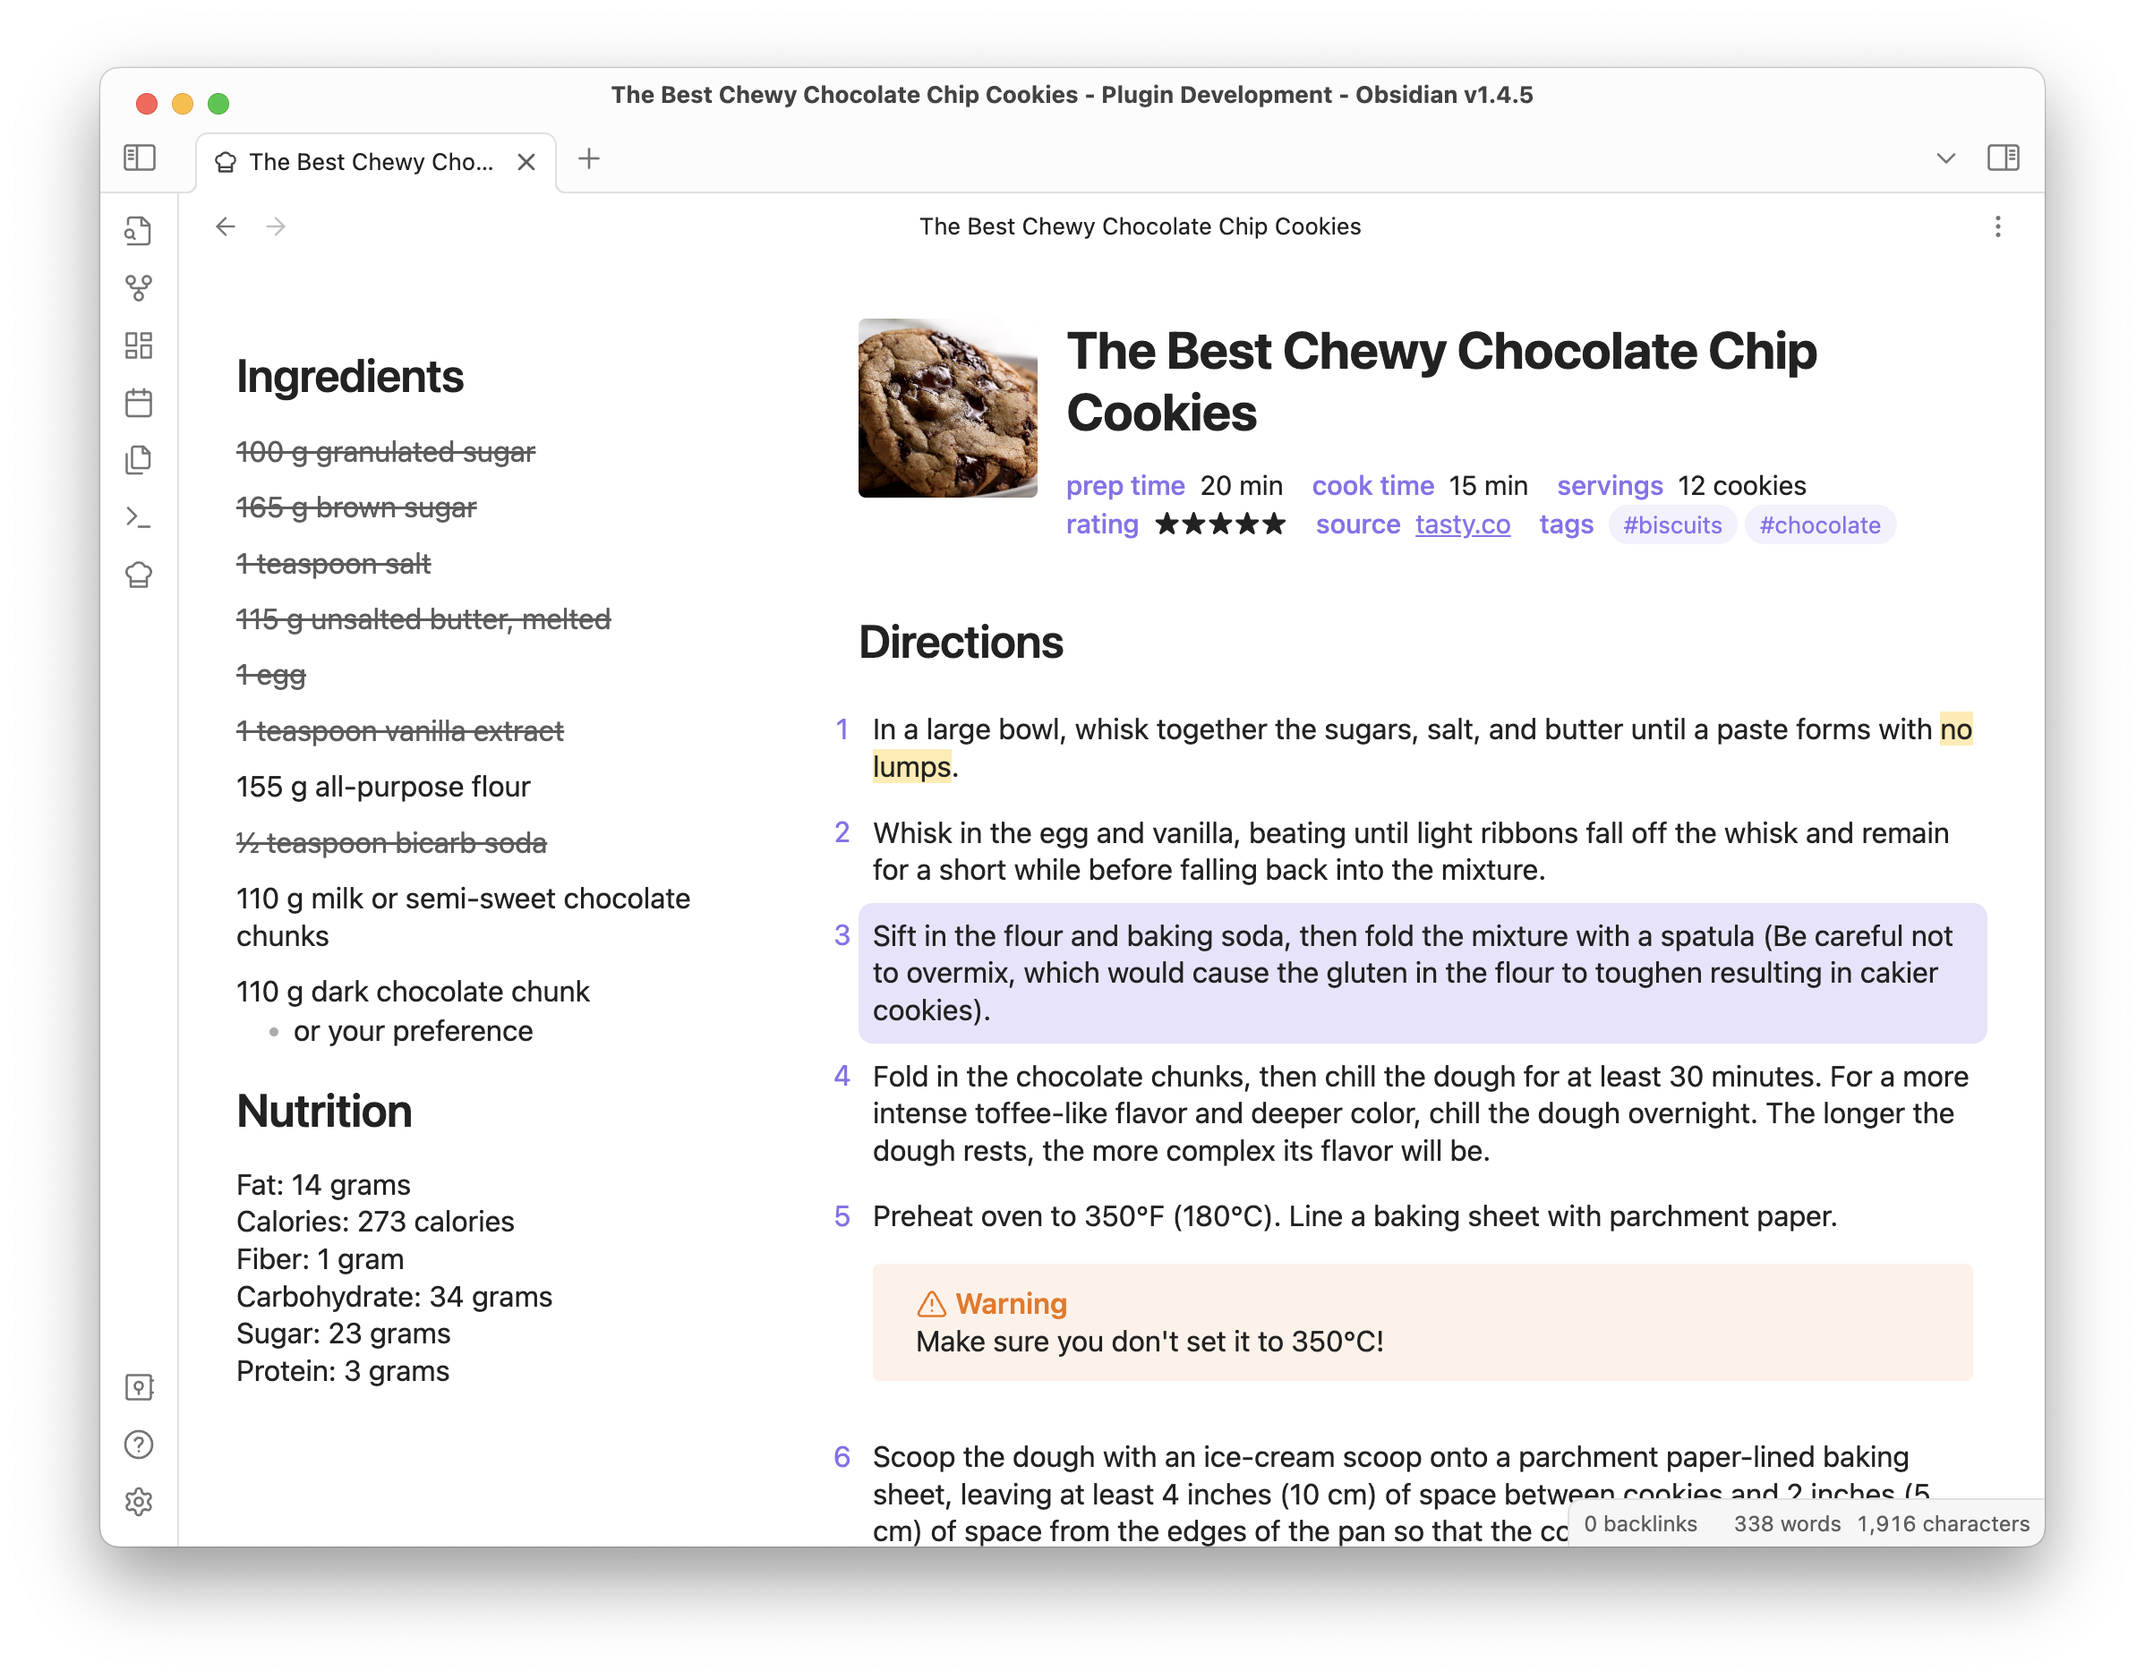
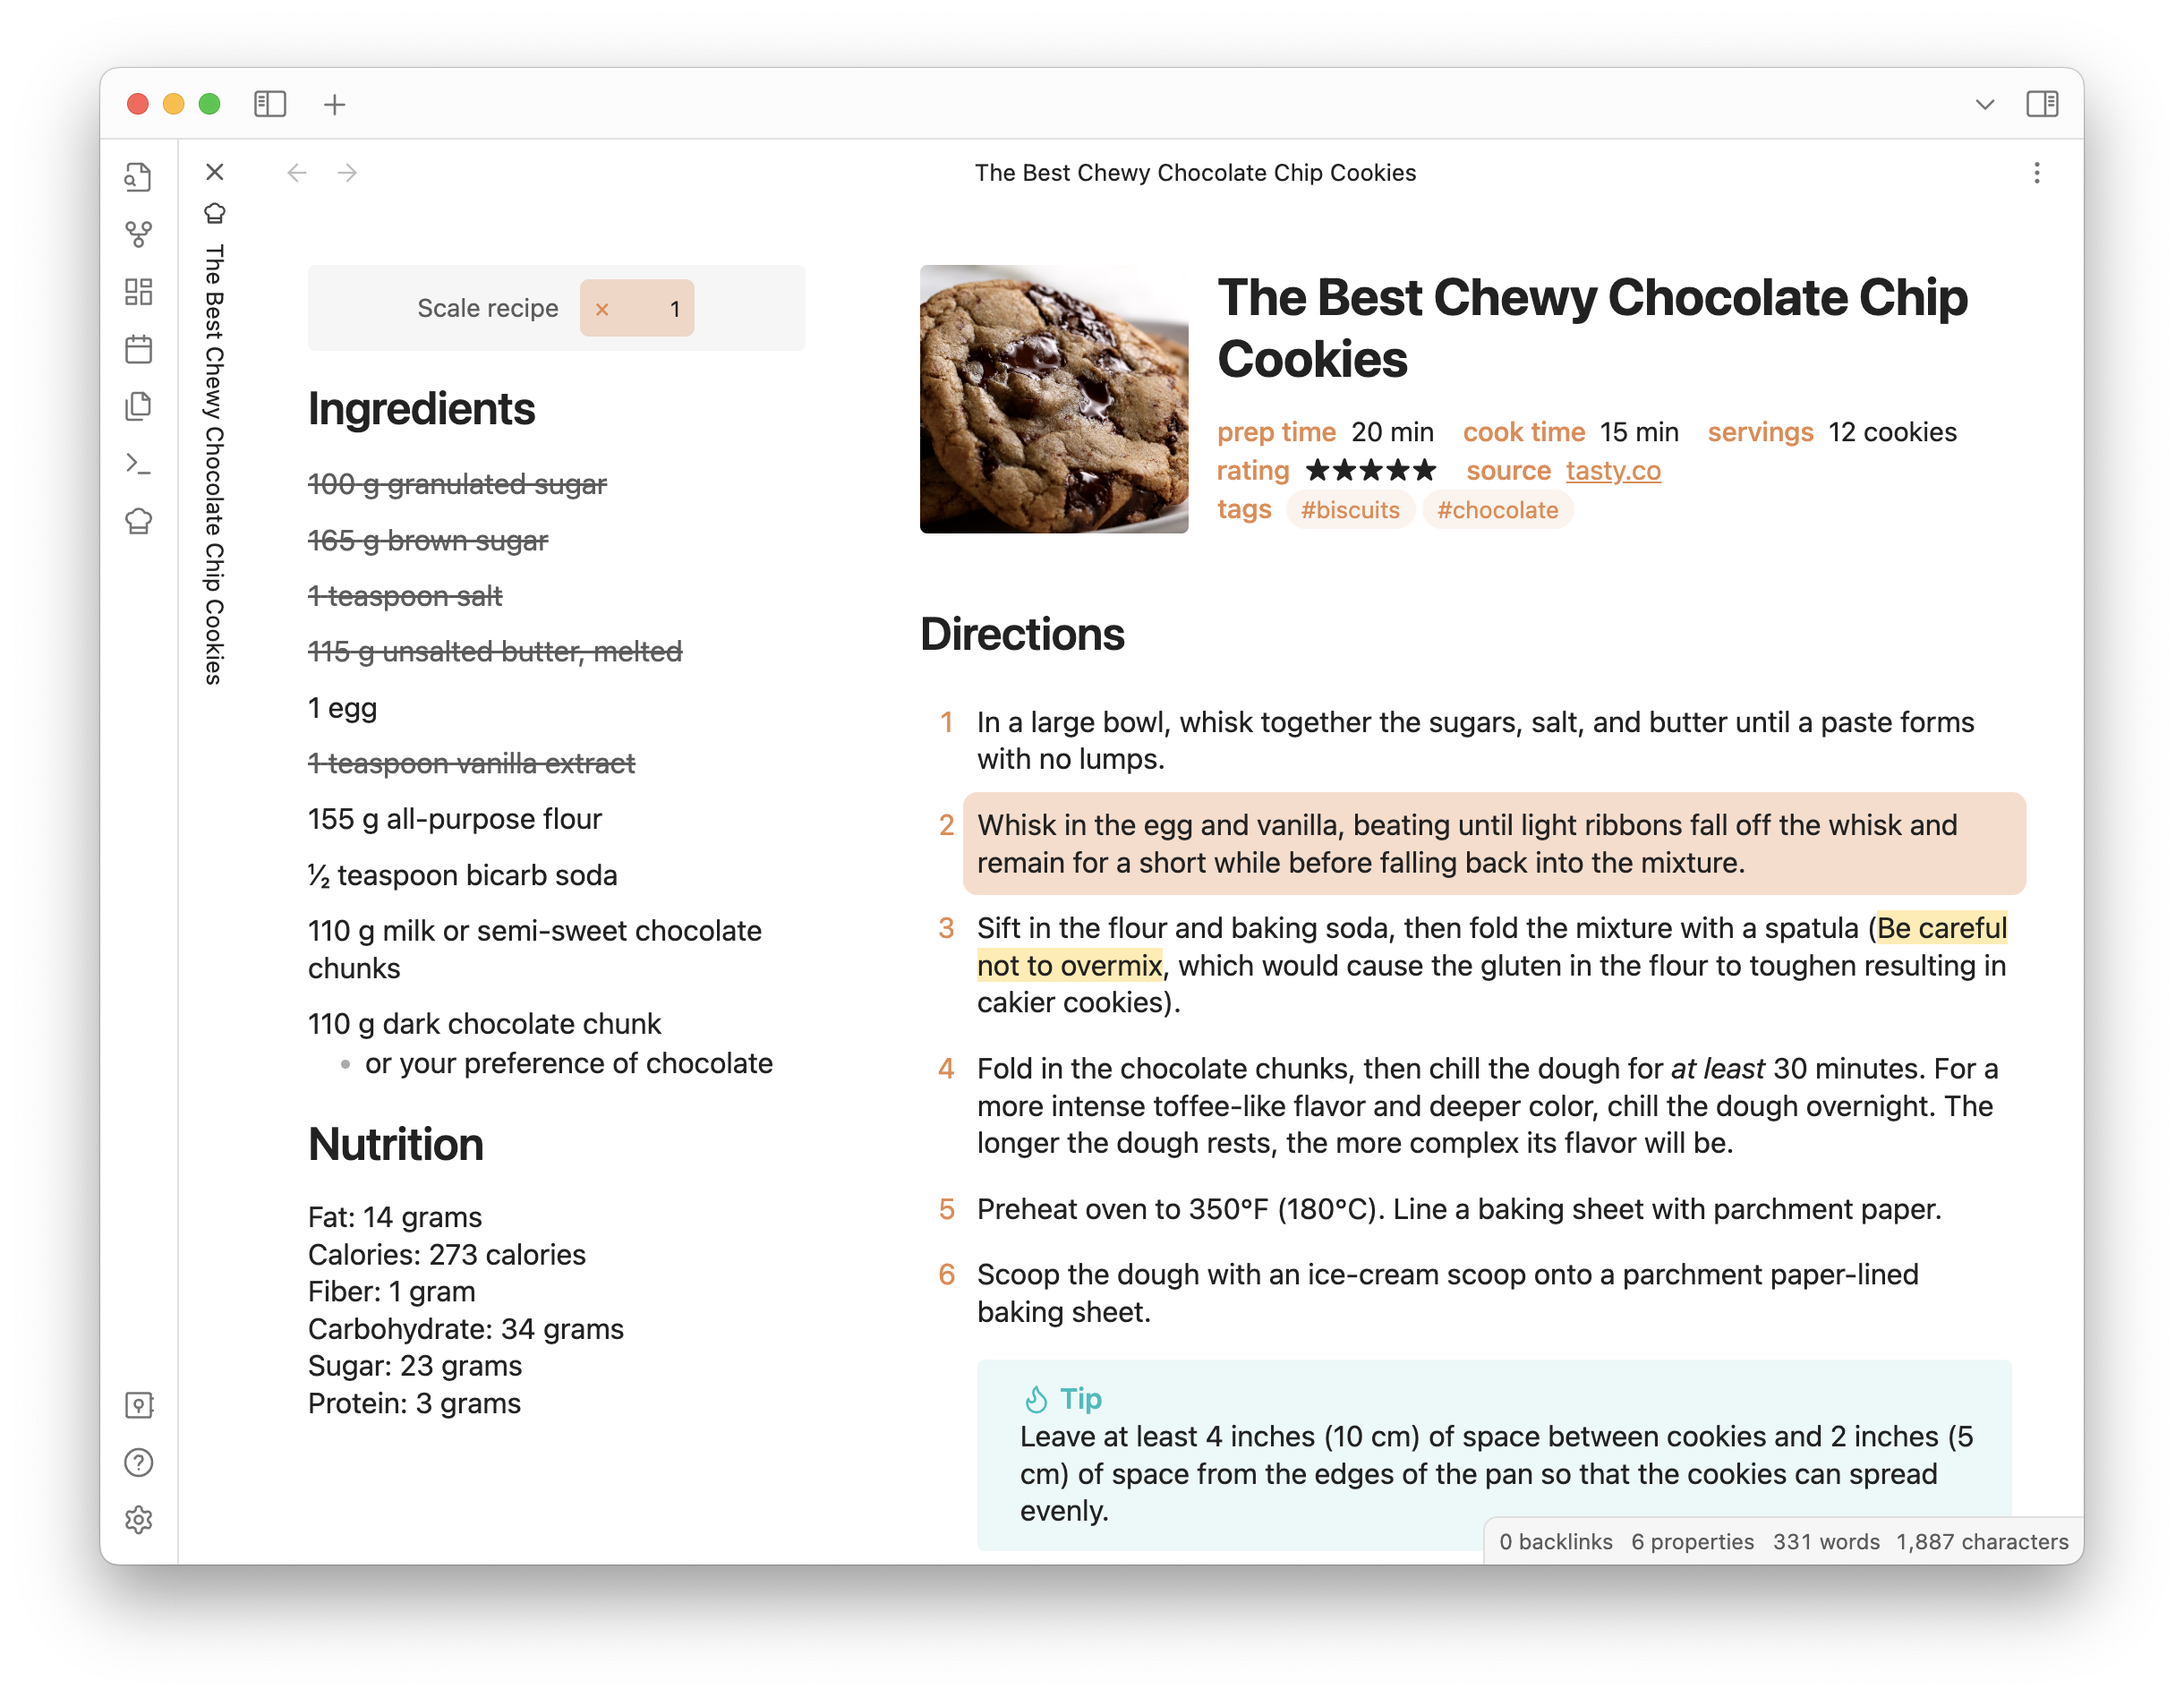
Update docs and bump version for 0.2

diff --git a/README.md b/README.md
@@ -9,11 +9,11 @@ Store, write, and manage your recipes in as regular Obsidian notes in **portable
 **Features include:**
 - 📒 Works with your recipes as-is, in whatever format you like to write them
 - 🌈 Lets you use all the regular markdown formatting, like in the rest of your vault
+- 🎚 Scale the quantities in your recipes easily
 - ⚙ Independently scrollable and configurable two-column view, for easier cooking reference
-- ✅ Bullet lists in the side column let you cross out ingredients as you add them
-- 📌 Numbered lists in the main column let you highlight the step you're up to
+- ✅ Cross out ingredients as you add them
+- 📌 Highlight your current step to keep track of where you're up to
 - 📱 Works on phones and tablets
-- [🚧 work in progress] Scale the quantities in your recipes easily
 
 **Why keep your recipes in Obsidian?**
 - ⚡ Portable and future-proof markdown
@@ -22,10 +22,66 @@ Store, write, and manage your recipes in as regular Obsidian notes in **portable
 - ☁ Write them on your laptop, check ingredients in the store on your phone, and cook from them in the kitchen with your iPad
 
 ## Usage
+
+Here's a tour of the main features.
+
+### Activation
 When you have the note for the recipe you want to view active, click the chef's hat icon in the ribbon. To make any edits to the recipe, you can use the back button to navigate back to the regular markdown view.
 
-Configure in settings which sections you want to be pulled into the side column based on their headings – the default is `Ingredients|Nutrition`.
+### Formatting
+The plugin is designed to not enforce any kind of strict format on your recipe notes, and should handle lots of different methods gracefully. That said, a suggested standard format to work best with this plugin is:
 
-The first image in your note that is not under a heading is pulled out as a thumbnail. All properties/front matter fields in your note are displayed under the title.
+```markdown
+![[thumbnail.jpg]]
 
+Any preamble can go here.
+
+## Ingredients
+**Section 1**
+- bulleted lists
+- quantities at the start, e.g.:
+- 180 grams butter
+- 3 eggs
+
+**Another section**
+- Feel free to split your ingredients up
+  - and add notes underneath
+- You don't need any bold headings if you don't want
+- 15 of [[Another recipe]], pre-made
+
+## Directions
+1. Numbered lists
+2. Feel free to include any markdown you like in your steps
+3. You can also split these up in sections, with bold or level 3+ headings
+
+## Notes
+Anything else you want can go here.
+
+## Nutrition
+Common when recipes are downloaded from the web
+```
+
+Feel free to adapt the suggested format however you like though – and if there's a certain style you prefer that does not work well with the plugin currently, create an issue with an example recipe and let me know!
+
+**The plugin currently follows the following rules for formatting the recipe card:**
+- Configure in settings which sections you want to be pulled into the side column based on their headings – the default is `Ingredients|Nutrition`.
+- Any bulleted lists in the side column will be converted into checkable ingredient lists – just click items to cross them out.
+- Any numbered lists in the main column will let you click on a step to highlight it. Click a different step to move the highlight, or the same step again to clear the highlight.
+- The first image in your note that is not under a heading is pulled out as a thumbnail. All properties/front matter fields in your note are displayed under the title.
+
+
+### Scaling ingredients
+<img src="docs/scaled.png" style="float: left; width: 300px; margin-right: 30px; margin-bottom:30px;" />
+
+Easily scale the ingredient quantities in your recipes using the widget at the top of the side column. By default, it will scale detected quantities in checkable ingredient lists only.
+
+To scale certain quantities in other sections e.g. in the directions, wrap them like `<span data-qty-parse>180 grams</span>`. You could also wrap a whole step in the same tags to parse all present quantities.
+
+To stop a certain quantity from being scaled mistakenly, wrap it like `<span data-qty-no-parse>30 centimetres</span>`.
+
+If the recipe is scaled, any quantities that have been adjusted will have an underline to make it clear what has and has not changed.
+
+<div style="clear: both;">
+
+### Additional settings
 The [Style Settings](https://github.com/mgmeyers/obsidian-style-settings) plugin will let you configure aspects of how the recipe card appears.
